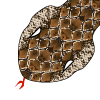
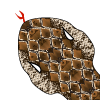
New commit

diff --git a/css/style.min.css b/css/style.min.css
@@ -1,1 +1,1 @@
-.modal-content,:root{color:#fff;font-family:'Seymour One',sans-serif}.modal-content,:root,header{font-family:'Seymour One',sans-serif}.modal-content h5,header,header .game_buttons button{text-shadow:0 .3px .5px #000}*{outline:0}:root{background-color:#38566F;box-shadow:inset 0 -52px 500px 4px #000}body{background:repeating-linear-gradient(45deg,rgba(0,0,0,.2),rgba(0,0,0,.2) 10px,rgba(0,0,0,.3) 10px,rgba(0,0,0,.3) 20px),url();max-width:600px;box-shadow:0 0 43px 17px #000;border-left:10px solid rgba(0,128,0,.2);border-right:10px solid rgba(0,128,0,.2)}.modal-content{background:repeating-linear-gradient(45deg,rgba(0,0,0,.2),rgba(0,0,0,.2) 10px,rgba(0,0,0,.3) 10px,rgba(0,0,0,.3) 20px),url(http://s3-us-west-2.amazonaws.com/s.cdpn.io/3/old_map_@2X.png)}.modal-content .modal-footer,.modal-content .modal-header{background:#ADA58E}.modal-content h5{color:#FFE0A2}.modal-content .btn-default.active{background:#F3BF62}header{color:#fff;padding:15px 25px}header .title{font-size:100%}header .game_buttons{text-align:right}header .game_buttons button{font-size:92%;letter-spacing:-.6px;border-radius:100%;height:75px;width:75px;margin:0 0 0 .5rem;padding:0;vertical-align:top;border:none}header .game_buttons button .underline,header .game_buttons button:not(#reset)::first-letter{text-decoration:underline}header .game_buttons button#options{background:#5B9B5B;font-size:150%}header .game_buttons button#options:hover{background-color:#398239;border-color:#398439}section{padding:0 20px}.flipV{-moz-transform:scaleX(-1);-o-transform:scaleX(-1);-webkit-transform:scaleX(-1);transform:scaleX(-1);filter:FlipV;-ms-filter:"FlipV"}.flipH{-moz-transform:scaleY(-1);-o-transform:scaleY(-1);-webkit-transform:scaleY(-1);transform:scaleY(-1);filter:FlipH;-ms-filter:"FlipH"}.direction.right{-o-transform:rotate(90deg);-ms-transform:rotate(90deg);-webkit-transform:rotate(90deg);transform:rotate(90deg)}.direction.right.flip{-moz-transform:scaleY(-1) rotate(90deg);-o-transform:scaleY(-1) rotate(90deg);-webkit-transform:scaleY(-1) rotate(90deg);transform:scaleY(-1) rotate(90deg);filter:FlipH;-ms-filter:"FlipH"}.direction.down{-o-transform:rotate(180deg);-ms-transform:rotate(180deg);-webkit-transform:rotate(180deg);transform:rotate(180deg)}.direction.down.flip{-moz-transform:scaleX(-1) rotate(180deg);-o-transform:scaleX(-1) rotate(180deg);-webkit-transform:scaleX(-1) rotate(180deg);transform:scaleX(-1) rotate(180deg);filter:flipV;-ms-filter:"FlipV"}.direction.left{-o-transform:rotate(-90deg);-ms-transform:rotate(-90deg);-webkit-transform:rotate(-90deg);transform:rotate(-90deg)}.direction.left.flip{-moz-transform:scaleY(-1) rotate(-90deg);-o-transform:scaleY(-1) rotate(-90deg);-webkit-transform:scaleY(-1) rotate(-90deg);transform:scaleY(-1) rotate(-90deg);filter:FlipH;-ms-filter:"FlipH"}.direction.up{-o-transform:rotate(0);-ms-transform:rotate(0);-webkit-transform:rotate(0);transform:rotate(0)}.direction.up.flip{-moz-transform:scaleX(-1) rotate(0);-o-transform:scaleX(-1) rotate(0);-webkit-transform:scaleX(-1) rotate(0);transform:scaleX(-1) rotate(0);filter:flipV;-ms-filter:"FlipV"}.board{box-sizing:content-box;background:linear-gradient(to bottom,#5d9634,#5d9634 50%,#538c2b 50%,#538c2b);background-size:100% 20px;width:100%;max-width:500px;border:3px double #fff;margin:auto;padding:0}.board .quadrant{box-sizing:border-box;width:4%;height:4%;float:left;margin:0;padding:0;background-size:cover}.board .snake{background:orange;background-size:cover!important}.board .snake.snake-body-1{background:url(../images/snake-graphics_head-2.png)}.board .snake.snake-body-1.right{-o-transform:rotate(90deg);-ms-transform:rotate(90deg);-webkit-transform:rotate(90deg);transform:rotate(90deg)}.board .snake.snake-body-1.right.flip{-moz-transform:scaleY(-1) rotate(90deg);-o-transform:scaleY(-1) rotate(90deg);-webkit-transform:scaleY(-1) rotate(90deg);transform:scaleY(-1) rotate(90deg);filter:FlipH;-ms-filter:"FlipH"}.board .snake.snake-body-1.down{-o-transform:rotate(180deg);-ms-transform:rotate(180deg);-webkit-transform:rotate(180deg);transform:rotate(180deg)}.board .snake.snake-body-1.down.flip{-moz-transform:scaleX(-1) rotate(180deg);-o-transform:scaleX(-1) rotate(180deg);-webkit-transform:scaleX(-1) rotate(180deg);transform:scaleX(-1) rotate(180deg);filter:flipV;-ms-filter:"FlipV"}.board .snake.snake-body-1.left{-o-transform:rotate(-90deg);-ms-transform:rotate(-90deg);-webkit-transform:rotate(-90deg);transform:rotate(-90deg)}.board .snake.snake-body-1.left.flip{-moz-transform:scaleY(-1) rotate(-90deg);-o-transform:scaleY(-1) rotate(-90deg);-webkit-transform:scaleY(-1) rotate(-90deg);transform:scaleY(-1) rotate(-90deg);filter:FlipH;-ms-filter:"FlipH"}.board .snake.snake-body-1.up{-o-transform:rotate(0);-ms-transform:rotate(0);-webkit-transform:rotate(0);transform:rotate(0)}.board .snake.snake-body-1.up.flip{-moz-transform:scaleX(-1) rotate(0);-o-transform:scaleX(-1) rotate(0);-webkit-transform:scaleX(-1) rotate(0);transform:scaleX(-1) rotate(0);filter:flipV;-ms-filter:"FlipV"}.board .snake.snake-body-main{background:url(../images/snake-graphics_mid.png)}.board .snake.snake-body-main.right{-o-transform:rotate(90deg);-ms-transform:rotate(90deg);-webkit-transform:rotate(90deg);transform:rotate(90deg)}.board .snake.snake-body-main.right.flip{-moz-transform:scaleY(-1) rotate(90deg);-o-transform:scaleY(-1) rotate(90deg);-webkit-transform:scaleY(-1) rotate(90deg);transform:scaleY(-1) rotate(90deg);filter:FlipH;-ms-filter:"FlipH"}.board .snake.snake-body-main.down{-o-transform:rotate(180deg);-ms-transform:rotate(180deg);-webkit-transform:rotate(180deg);transform:rotate(180deg)}.board .snake.snake-body-main.down.flip{-moz-transform:scaleX(-1) rotate(180deg);-o-transform:scaleX(-1) rotate(180deg);-webkit-transform:scaleX(-1) rotate(180deg);transform:scaleX(-1) rotate(180deg);filter:flipV;-ms-filter:"FlipV"}.board .snake.snake-body-main.left{-o-transform:rotate(-90deg);-ms-transform:rotate(-90deg);-webkit-transform:rotate(-90deg);transform:rotate(-90deg)}.board .snake.snake-body-main.left.flip{-moz-transform:scaleY(-1) rotate(-90deg);-o-transform:scaleY(-1) rotate(-90deg);-webkit-transform:scaleY(-1) rotate(-90deg);transform:scaleY(-1) rotate(-90deg);filter:FlipH;-ms-filter:"FlipH"}.board .snake.snake-body-main.up{-o-transform:rotate(0);-ms-transform:rotate(0);-webkit-transform:rotate(0);transform:rotate(0)}.board .snake.snake-body-main.up.flip{-moz-transform:scaleX(-1) rotate(0);-o-transform:scaleX(-1) rotate(0);-webkit-transform:scaleX(-1) rotate(0);transform:scaleX(-1) rotate(0);filter:flipV;-ms-filter:"FlipV"}.board .snake.snake-tail{background:url(../images/snake-graphics_tail.png)}.board .snake.snake-tail.right{-o-transform:rotate(90deg);-ms-transform:rotate(90deg);-webkit-transform:rotate(90deg);transform:rotate(90deg)}.board .snake.snake-tail.right.flip{-moz-transform:scaleY(-1) rotate(90deg);-o-transform:scaleY(-1) rotate(90deg);-webkit-transform:scaleY(-1) rotate(90deg);transform:scaleY(-1) rotate(90deg);filter:FlipH;-ms-filter:"FlipH"}.board .snake.snake-tail.down{-o-transform:rotate(180deg);-ms-transform:rotate(180deg);-webkit-transform:rotate(180deg);transform:rotate(180deg)}.board .snake.snake-tail.down.flip{-moz-transform:scaleX(-1) rotate(180deg);-o-transform:scaleX(-1) rotate(180deg);-webkit-transform:scaleX(-1) rotate(180deg);transform:scaleX(-1) rotate(180deg);filter:flipV;-ms-filter:"FlipV"}.board .snake.snake-tail.left{-o-transform:rotate(-90deg);-ms-transform:rotate(-90deg);-webkit-transform:rotate(-90deg);transform:rotate(-90deg)}.board .snake.snake-tail.left.flip{-moz-transform:scaleY(-1) rotate(-90deg);-o-transform:scaleY(-1) rotate(-90deg);-webkit-transform:scaleY(-1) rotate(-90deg);transform:scaleY(-1) rotate(-90deg);filter:FlipH;-ms-filter:"FlipH"}.board .snake.snake-tail.up{-o-transform:rotate(0);-ms-transform:rotate(0);-webkit-transform:rotate(0);transform:rotate(0)}.board .snake.snake-tail.up.flip{-moz-transform:scaleX(-1) rotate(0);-o-transform:scaleX(-1) rotate(0);-webkit-transform:scaleX(-1) rotate(0);transform:scaleX(-1) rotate(0);filter:flipV;-ms-filter:"FlipV"}.board .snake.snake-corner{background:url(../images/snake-graphics_corner-1.png)}.board .snake.snake-corner.left-corner{-o-transform:rotate(0);-ms-transform:rotate(0);-webkit-transform:rotate(0);transform:rotate(0)}.board .snake.snake-corner.left-corner.flip{-o-transform:rotate(-90deg);-ms-transform:rotate(-90deg);-webkit-transform:rotate(-90deg);transform:rotate(-90deg)}.board .snake.snake-corner.left-corner.flip.flip{-moz-transform:scaleX(-1) rotate(-90deg);-o-transform:scaleX(-1) rotate(-90deg);-webkit-transform:scaleX(-1) rotate(-90deg);transform:scaleX(-1) rotate(-90deg);filter:flipV;-ms-filter:"FlipV"}.board .snake.snake-corner.right-corner{-o-transform:rotate(-90deg);-ms-transform:rotate(-90deg);-webkit-transform:rotate(-90deg);transform:rotate(-90deg)}.board .snake.snake-corner.right-corner.flip{-moz-transform:scaleX(-1);-o-transform:scaleX(-1);-webkit-transform:scaleX(-1);transform:scaleX(-1);filter:FlipV;-ms-filter:"FlipV"}.board .snake.snake-corner.down-right-corner{-o-transform:rotate(180deg);-ms-transform:rotate(180deg);-webkit-transform:rotate(180deg);transform:rotate(180deg)}.board .snake.snake-corner.down-right-corner.flip{-o-transform:rotate(90deg);-ms-transform:rotate(90deg);-webkit-transform:rotate(90deg);transform:rotate(90deg)}.board .snake.snake-corner.down-right-corner.flip.flip{-moz-transform:scaleX(-1) rotate(90deg);-o-transform:scaleX(-1) rotate(90deg);-webkit-transform:scaleX(-1) rotate(90deg);transform:scaleX(-1) rotate(90deg);filter:flipV;-ms-filter:"FlipV"}.board .snake.snake-corner.down-left-corner{-o-transform:rotate(90deg);-ms-transform:rotate(90deg);-webkit-transform:rotate(90deg);transform:rotate(90deg)}.board .snake.snake-corner.down-left-corner.flip{-moz-transform:scaleY(-1);-o-transform:scaleY(-1);-webkit-transform:scaleY(-1);transform:scaleY(-1);filter:FlipH;-ms-filter:"FlipH"}.board .snake.snake-head{background:url(../images/snake-graphics_head.png)}.board .snake.snake-head.right{-o-transform:rotate(90deg);-ms-transform:rotate(90deg);-webkit-transform:rotate(90deg);transform:rotate(90deg)}.board .snake.snake-head.right.flip{-moz-transform:scaleY(-1) rotate(90deg);-o-transform:scaleY(-1) rotate(90deg);-webkit-transform:scaleY(-1) rotate(90deg);transform:scaleY(-1) rotate(90deg);filter:FlipH;-ms-filter:"FlipH"}.board .snake.snake-head.down{-o-transform:rotate(180deg);-ms-transform:rotate(180deg);-webkit-transform:rotate(180deg);transform:rotate(180deg)}.board .snake.snake-head.down.flip{-moz-transform:scaleX(-1) rotate(180deg);-o-transform:scaleX(-1) rotate(180deg);-webkit-transform:scaleX(-1) rotate(180deg);transform:scaleX(-1) rotate(180deg);filter:flipV;-ms-filter:"FlipV"}.board .snake.snake-head.left{-o-transform:rotate(-90deg);-ms-transform:rotate(-90deg);-webkit-transform:rotate(-90deg);transform:rotate(-90deg)}.board .snake.snake-head.left.flip{-moz-transform:scaleY(-1) rotate(-90deg);-o-transform:scaleY(-1) rotate(-90deg);-webkit-transform:scaleY(-1) rotate(-90deg);transform:scaleY(-1) rotate(-90deg);filter:FlipH;-ms-filter:"FlipH"}.board .snake.snake-head.up{-o-transform:rotate(0);-ms-transform:rotate(0);-webkit-transform:rotate(0);transform:rotate(0)}.board .snake.snake-head.up.flip{-moz-transform:scaleX(-1) rotate(0);-o-transform:scaleX(-1) rotate(0);-webkit-transform:scaleX(-1) rotate(0);transform:scaleX(-1) rotate(0);filter:flipV;-ms-filter:"FlipV"}.board .snake.alternate-head,.board .snake.alternate-head.flip{background:url(../images/snake-graphics-turning-head.png)}.board .fruit{background:red;border-radius:100%}.board .frog{background:url(../images/frog.png);background-size:cover;opacity:.8}.board .frog.right{-o-transform:rotate(90deg);-ms-transform:rotate(90deg);-webkit-transform:rotate(90deg);transform:rotate(90deg)}.board .frog.right.flip{-moz-transform:scaleY(-1) rotate(90deg);-o-transform:scaleY(-1) rotate(90deg);-webkit-transform:scaleY(-1) rotate(90deg);transform:scaleY(-1) rotate(90deg);filter:FlipH;-ms-filter:"FlipH"}.board .frog.down{-o-transform:rotate(180deg);-ms-transform:rotate(180deg);-webkit-transform:rotate(180deg);transform:rotate(180deg)}.board .frog.down.flip{-moz-transform:scaleX(-1) rotate(180deg);-o-transform:scaleX(-1) rotate(180deg);-webkit-transform:scaleX(-1) rotate(180deg);transform:scaleX(-1) rotate(180deg);filter:flipV;-ms-filter:"FlipV"}.board .frog.left{-o-transform:rotate(-90deg);-ms-transform:rotate(-90deg);-webkit-transform:rotate(-90deg);transform:rotate(-90deg)}.board .frog.left.flip{-moz-transform:scaleY(-1) rotate(-90deg);-o-transform:scaleY(-1) rotate(-90deg);-webkit-transform:scaleY(-1) rotate(-90deg);transform:scaleY(-1) rotate(-90deg);filter:FlipH;-ms-filter:"FlipH"}.board .frog.up{-o-transform:rotate(0);-ms-transform:rotate(0);-webkit-transform:rotate(0);transform:rotate(0)}.board .frog.up.flip{-moz-transform:scaleX(-1) rotate(0);-o-transform:scaleX(-1) rotate(0);-webkit-transform:scaleX(-1) rotate(0);transform:scaleX(-1) rotate(0);filter:flipV;-ms-filter:"FlipV"}#legend .game_controller{padding:2rem}#legend .game_controller button{background:#fff;border-radius:30px;height:46px}#legend .game_controller button .fa{font-size:2rem}#legend .game_controller #down:active,#legend .game_controller #left:active,#legend .game_controller #right:active,#legend .game_controller #up:active,#legend .game_controller .pressed{border-style:inset;background:#D9534F;color:#fff}@media screen and (max-width:768px){.board{max-width:400px}header .game_buttons{padding-right:0}header .game_buttons button{height:40px;width:40px;border-radius:100%;margin:0;font-size:0}header .game_buttons button::first-letter{font-size:15px;text-decoration:none!important}.game_controller button{height:5rem}.no-mobile{display:none}}.hidden,.ui-loader{display:none}
+.modal-content,:root{color:#fff;font-family:'Seymour One',sans-serif}.modal-content,:root,header{font-family:'Seymour One',sans-serif}.modal-content h5,header,header .game_buttons button{text-shadow:0 .3px .5px #000}*{outline:0}:root{background-color:#38566F;box-shadow:inset 0 -52px 500px 4px #000}body{background:repeating-linear-gradient(45deg,rgba(0,0,0,.2),rgba(0,0,0,.2) 10px,rgba(0,0,0,.3) 10px,rgba(0,0,0,.3) 20px),url();max-width:600px;box-shadow:0 0 43px 17px #000;border-left:10px solid rgba(0,128,0,.2);border-right:10px solid rgba(0,128,0,.2)}.modal-content{background:repeating-linear-gradient(45deg,rgba(0,0,0,.2),rgba(0,0,0,.2) 10px,rgba(0,0,0,.3) 10px,rgba(0,0,0,.3) 20px),url(http://s3-us-west-2.amazonaws.com/s.cdpn.io/3/old_map_@2X.png)}.modal-content .modal-footer,.modal-content .modal-header{background:#ADA58E}.modal-content h5{color:#FFE0A2}.modal-content .btn-default.active{background:#F3BF62}header{color:#fff;padding:15px 25px}header .title{font-size:100%}header .game_buttons{text-align:right}header .game_buttons button{font-size:92%;letter-spacing:-.6px;border-radius:100%;height:75px;width:75px;margin:0 0 0 .5rem;padding:0;vertical-align:top;border:none}header .game_buttons button .underline,header .game_buttons button:not(#reset)::first-letter{text-decoration:underline}header .game_buttons button#options{background:#5B9B5B;font-size:150%}header .game_buttons button#options:hover{background-color:#398239;border-color:#398439}section{padding:0 20px}.flipV{-moz-transform:scaleX(-1);-o-transform:scaleX(-1);-webkit-transform:scaleX(-1);transform:scaleX(-1);filter:FlipV;-ms-filter:"FlipV"}.flipH{-moz-transform:scaleY(-1);-o-transform:scaleY(-1);-webkit-transform:scaleY(-1);transform:scaleY(-1);filter:FlipH;-ms-filter:"FlipH"}.direction.right{-o-transform:rotate(90deg);-ms-transform:rotate(90deg);-webkit-transform:rotate(90deg);transform:rotate(90deg)}.direction.right.flip{-moz-transform:scaleY(-1) rotate(90deg);-o-transform:scaleY(-1) rotate(90deg);-webkit-transform:scaleY(-1) rotate(90deg);transform:scaleY(-1) rotate(90deg);filter:FlipH;-ms-filter:"FlipH"}.direction.down{-o-transform:rotate(180deg);-ms-transform:rotate(180deg);-webkit-transform:rotate(180deg);transform:rotate(180deg)}.direction.down.flip{-moz-transform:scaleX(-1) rotate(180deg);-o-transform:scaleX(-1) rotate(180deg);-webkit-transform:scaleX(-1) rotate(180deg);transform:scaleX(-1) rotate(180deg);filter:flipV;-ms-filter:"FlipV"}.direction.left{-o-transform:rotate(-90deg);-ms-transform:rotate(-90deg);-webkit-transform:rotate(-90deg);transform:rotate(-90deg)}.direction.left.flip{-moz-transform:scaleY(-1) rotate(-90deg);-o-transform:scaleY(-1) rotate(-90deg);-webkit-transform:scaleY(-1) rotate(-90deg);transform:scaleY(-1) rotate(-90deg);filter:FlipH;-ms-filter:"FlipH"}.direction.up{-o-transform:rotate(0);-ms-transform:rotate(0);-webkit-transform:rotate(0);transform:rotate(0)}.direction.up.flip{-moz-transform:scaleX(-1) rotate(0);-o-transform:scaleX(-1) rotate(0);-webkit-transform:scaleX(-1) rotate(0);transform:scaleX(-1) rotate(0);filter:flipV;-ms-filter:"FlipV"}.board{box-sizing:content-box;background:linear-gradient(to bottom,#5d9634,#5d9634 50%,#538c2b 50%,#538c2b);background-size:100% 20px;width:100%;max-width:500px;border:3px double #fff;margin:auto;padding:0}.board .quadrant{box-sizing:border-box;width:4%;height:4%;float:left;margin:0;padding:0;background-size:cover}.board .snake{background:orange;background-size:cover!important}.board .snake.snake-body-1{background:url(../images/snake-graphics_head-2.png)}.board .snake.snake-body-1.right{-o-transform:rotate(90deg);-ms-transform:rotate(90deg);-webkit-transform:rotate(90deg);transform:rotate(90deg)}.board .snake.snake-body-1.right.flip{-moz-transform:scaleY(-1) rotate(90deg);-o-transform:scaleY(-1) rotate(90deg);-webkit-transform:scaleY(-1) rotate(90deg);transform:scaleY(-1) rotate(90deg);filter:FlipH;-ms-filter:"FlipH"}.board .snake.snake-body-1.down{-o-transform:rotate(180deg);-ms-transform:rotate(180deg);-webkit-transform:rotate(180deg);transform:rotate(180deg)}.board .snake.snake-body-1.down.flip{-moz-transform:scaleX(-1) rotate(180deg);-o-transform:scaleX(-1) rotate(180deg);-webkit-transform:scaleX(-1) rotate(180deg);transform:scaleX(-1) rotate(180deg);filter:flipV;-ms-filter:"FlipV"}.board .snake.snake-body-1.left{-o-transform:rotate(-90deg);-ms-transform:rotate(-90deg);-webkit-transform:rotate(-90deg);transform:rotate(-90deg)}.board .snake.snake-body-1.left.flip{-moz-transform:scaleY(-1) rotate(-90deg);-o-transform:scaleY(-1) rotate(-90deg);-webkit-transform:scaleY(-1) rotate(-90deg);transform:scaleY(-1) rotate(-90deg);filter:FlipH;-ms-filter:"FlipH"}.board .snake.snake-body-1.up{-o-transform:rotate(0);-ms-transform:rotate(0);-webkit-transform:rotate(0);transform:rotate(0)}.board .snake.snake-body-1.up.flip{-moz-transform:scaleX(-1) rotate(0);-o-transform:scaleX(-1) rotate(0);-webkit-transform:scaleX(-1) rotate(0);transform:scaleX(-1) rotate(0);filter:flipV;-ms-filter:"FlipV"}.board .snake.snake-body-main{background:url(../images/snake-graphics_mid.png)}.board .snake.snake-body-main.right{-o-transform:rotate(90deg);-ms-transform:rotate(90deg);-webkit-transform:rotate(90deg);transform:rotate(90deg)}.board .snake.snake-body-main.right.flip{-moz-transform:scaleY(-1) rotate(90deg);-o-transform:scaleY(-1) rotate(90deg);-webkit-transform:scaleY(-1) rotate(90deg);transform:scaleY(-1) rotate(90deg);filter:FlipH;-ms-filter:"FlipH"}.board .snake.snake-body-main.down{-o-transform:rotate(180deg);-ms-transform:rotate(180deg);-webkit-transform:rotate(180deg);transform:rotate(180deg)}.board .snake.snake-body-main.down.flip{-moz-transform:scaleX(-1) rotate(180deg);-o-transform:scaleX(-1) rotate(180deg);-webkit-transform:scaleX(-1) rotate(180deg);transform:scaleX(-1) rotate(180deg);filter:flipV;-ms-filter:"FlipV"}.board .snake.snake-body-main.left{-o-transform:rotate(-90deg);-ms-transform:rotate(-90deg);-webkit-transform:rotate(-90deg);transform:rotate(-90deg)}.board .snake.snake-body-main.left.flip{-moz-transform:scaleY(-1) rotate(-90deg);-o-transform:scaleY(-1) rotate(-90deg);-webkit-transform:scaleY(-1) rotate(-90deg);transform:scaleY(-1) rotate(-90deg);filter:FlipH;-ms-filter:"FlipH"}.board .snake.snake-body-main.up{-o-transform:rotate(0);-ms-transform:rotate(0);-webkit-transform:rotate(0);transform:rotate(0)}.board .snake.snake-body-main.up.flip{-moz-transform:scaleX(-1) rotate(0);-o-transform:scaleX(-1) rotate(0);-webkit-transform:scaleX(-1) rotate(0);transform:scaleX(-1) rotate(0);filter:flipV;-ms-filter:"FlipV"}.board .snake.snake-tail{background:url(../images/snake-graphics_tail.png)}.board .snake.snake-tail.right{-o-transform:rotate(90deg);-ms-transform:rotate(90deg);-webkit-transform:rotate(90deg);transform:rotate(90deg)}.board .snake.snake-tail.right.flip{-moz-transform:scaleY(-1) rotate(90deg);-o-transform:scaleY(-1) rotate(90deg);-webkit-transform:scaleY(-1) rotate(90deg);transform:scaleY(-1) rotate(90deg);filter:FlipH;-ms-filter:"FlipH"}.board .snake.snake-tail.down{-o-transform:rotate(180deg);-ms-transform:rotate(180deg);-webkit-transform:rotate(180deg);transform:rotate(180deg)}.board .snake.snake-tail.down.flip{-moz-transform:scaleX(-1) rotate(180deg);-o-transform:scaleX(-1) rotate(180deg);-webkit-transform:scaleX(-1) rotate(180deg);transform:scaleX(-1) rotate(180deg);filter:flipV;-ms-filter:"FlipV"}.board .snake.snake-tail.left{-o-transform:rotate(-90deg);-ms-transform:rotate(-90deg);-webkit-transform:rotate(-90deg);transform:rotate(-90deg)}.board .snake.snake-tail.left.flip{-moz-transform:scaleY(-1) rotate(-90deg);-o-transform:scaleY(-1) rotate(-90deg);-webkit-transform:scaleY(-1) rotate(-90deg);transform:scaleY(-1) rotate(-90deg);filter:FlipH;-ms-filter:"FlipH"}.board .snake.snake-tail.up{-o-transform:rotate(0);-ms-transform:rotate(0);-webkit-transform:rotate(0);transform:rotate(0)}.board .snake.snake-tail.up.flip{-moz-transform:scaleX(-1) rotate(0);-o-transform:scaleX(-1) rotate(0);-webkit-transform:scaleX(-1) rotate(0);transform:scaleX(-1) rotate(0);filter:flipV;-ms-filter:"FlipV"}.board .snake.snake-corner{background:url(../images/snake-graphics_corner-1.png)}.board .snake.snake-corner.left-corner{-o-transform:rotate(0);-ms-transform:rotate(0);-webkit-transform:rotate(0);transform:rotate(0)}.board .snake.snake-corner.left-corner.flip{-o-transform:rotate(-90deg);-ms-transform:rotate(-90deg);-webkit-transform:rotate(-90deg);transform:rotate(-90deg)}.board .snake.snake-corner.left-corner.flip.flip{-moz-transform:scaleX(-1) rotate(-90deg);-o-transform:scaleX(-1) rotate(-90deg);-webkit-transform:scaleX(-1) rotate(-90deg);transform:scaleX(-1) rotate(-90deg);filter:flipV;-ms-filter:"FlipV"}.board .snake.snake-corner.right-corner{-o-transform:rotate(-90deg);-ms-transform:rotate(-90deg);-webkit-transform:rotate(-90deg);transform:rotate(-90deg)}.board .snake.snake-corner.right-corner.flip{-moz-transform:scaleX(-1);-o-transform:scaleX(-1);-webkit-transform:scaleX(-1);transform:scaleX(-1);filter:FlipV;-ms-filter:"FlipV"}.board .snake.snake-corner.down-right-corner{-o-transform:rotate(180deg);-ms-transform:rotate(180deg);-webkit-transform:rotate(180deg);transform:rotate(180deg)}.board .snake.snake-corner.down-right-corner.flip{-o-transform:rotate(90deg);-ms-transform:rotate(90deg);-webkit-transform:rotate(90deg);transform:rotate(90deg)}.board .snake.snake-corner.down-right-corner.flip.flip{-moz-transform:scaleX(-1) rotate(90deg);-o-transform:scaleX(-1) rotate(90deg);-webkit-transform:scaleX(-1) rotate(90deg);transform:scaleX(-1) rotate(90deg);filter:flipV;-ms-filter:"FlipV"}.board .snake.snake-corner.down-left-corner{-o-transform:rotate(90deg);-ms-transform:rotate(90deg);-webkit-transform:rotate(90deg);transform:rotate(90deg)}.board .snake.snake-corner.down-left-corner.flip{-moz-transform:scaleY(-1);-o-transform:scaleY(-1);-webkit-transform:scaleY(-1);transform:scaleY(-1);filter:FlipH;-ms-filter:"FlipH"}.board .snake.snake-head{background:url(../images/head-2.png)}.board .snake.snake-head.right{-o-transform:rotate(90deg);-ms-transform:rotate(90deg);-webkit-transform:rotate(90deg);transform:rotate(90deg)}.board .snake.snake-head.right.flip{-moz-transform:scaleY(-1) rotate(90deg);-o-transform:scaleY(-1) rotate(90deg);-webkit-transform:scaleY(-1) rotate(90deg);transform:scaleY(-1) rotate(90deg);filter:FlipH;-ms-filter:"FlipH"}.board .snake.snake-head.down{-o-transform:rotate(180deg);-ms-transform:rotate(180deg);-webkit-transform:rotate(180deg);transform:rotate(180deg)}.board .snake.snake-head.down.flip{-moz-transform:scaleX(-1) rotate(180deg);-o-transform:scaleX(-1) rotate(180deg);-webkit-transform:scaleX(-1) rotate(180deg);transform:scaleX(-1) rotate(180deg);filter:flipV;-ms-filter:"FlipV"}.board .snake.snake-head.left{-o-transform:rotate(-90deg);-ms-transform:rotate(-90deg);-webkit-transform:rotate(-90deg);transform:rotate(-90deg)}.board .snake.snake-head.left.flip{-moz-transform:scaleY(-1) rotate(-90deg);-o-transform:scaleY(-1) rotate(-90deg);-webkit-transform:scaleY(-1) rotate(-90deg);transform:scaleY(-1) rotate(-90deg);filter:FlipH;-ms-filter:"FlipH"}.board .snake.snake-head.up{-o-transform:rotate(0);-ms-transform:rotate(0);-webkit-transform:rotate(0);transform:rotate(0)}.board .snake.snake-head.up.flip{-moz-transform:scaleX(-1) rotate(0);-o-transform:scaleX(-1) rotate(0);-webkit-transform:scaleX(-1) rotate(0);transform:scaleX(-1) rotate(0);filter:flipV;-ms-filter:"FlipV"}.board .snake.alternate-head,.board .snake.alternate-head.flip{background:url(../images/snake-graphics-turning-head.png)}.board .fruit{background:red;border-radius:100%}.board .frog{background:url(../images/frog.png);background-size:cover;opacity:.8}.board .frog.right{-o-transform:rotate(90deg);-ms-transform:rotate(90deg);-webkit-transform:rotate(90deg);transform:rotate(90deg)}.board .frog.right.flip{-moz-transform:scaleY(-1) rotate(90deg);-o-transform:scaleY(-1) rotate(90deg);-webkit-transform:scaleY(-1) rotate(90deg);transform:scaleY(-1) rotate(90deg);filter:FlipH;-ms-filter:"FlipH"}.board .frog.down{-o-transform:rotate(180deg);-ms-transform:rotate(180deg);-webkit-transform:rotate(180deg);transform:rotate(180deg)}.board .frog.down.flip{-moz-transform:scaleX(-1) rotate(180deg);-o-transform:scaleX(-1) rotate(180deg);-webkit-transform:scaleX(-1) rotate(180deg);transform:scaleX(-1) rotate(180deg);filter:flipV;-ms-filter:"FlipV"}.board .frog.left{-o-transform:rotate(-90deg);-ms-transform:rotate(-90deg);-webkit-transform:rotate(-90deg);transform:rotate(-90deg)}.board .frog.left.flip{-moz-transform:scaleY(-1) rotate(-90deg);-o-transform:scaleY(-1) rotate(-90deg);-webkit-transform:scaleY(-1) rotate(-90deg);transform:scaleY(-1) rotate(-90deg);filter:FlipH;-ms-filter:"FlipH"}.board .frog.up{-o-transform:rotate(0);-ms-transform:rotate(0);-webkit-transform:rotate(0);transform:rotate(0)}.board .frog.up.flip{-moz-transform:scaleX(-1) rotate(0);-o-transform:scaleX(-1) rotate(0);-webkit-transform:scaleX(-1) rotate(0);transform:scaleX(-1) rotate(0);filter:flipV;-ms-filter:"FlipV"}#legend .game_controller{padding:2rem}#legend .game_controller button{background:#fff;border-radius:30px;height:46px}#legend .game_controller button .fa{font-size:2rem}#legend .game_controller #down:active,#legend .game_controller #left:active,#legend .game_controller #right:active,#legend .game_controller #up:active,#legend .game_controller .pressed{border-style:inset;background:#D9534F;color:#fff}@media screen and (max-width:768px){.board{max-width:400px}header .game_buttons{padding-right:0}header .game_buttons button{height:40px;width:40px;border-radius:100%;margin:0;font-size:0}header .game_buttons button::first-letter{font-size:15px;text-decoration:none!important}.game_controller button{height:5rem}.no-mobile{display:none}}.hidden,.ui-loader{display:none}

diff --git a/js/script.min.js b/js/script.min.js
@@ -1,4 +1,4 @@
 /*
  snake-game 2016-03-10 
 */
-function quad(a){return $("[data-xcoord="+a[0]+"][data-ycoord="+a[1]+"]")}function makeFrogs(){x=Math.floor(Math.random()*(gameOptions.dimension-1-0))+1,y=Math.floor(Math.random()*(gameOptions.dimension-1-0))+1,quad([x,y]).hasClass("snake")?makeFrogs():quad([x,y]).addClass("frog").addClass(directions[Math.floor(Math.random()*directions.length)]),console.log("New Frog: "+x+","+y)}function setup(){$(".board").html("");var a=$(".board").width();$(".board").css("height",a),score=0,$("#score").text(score),isPaused=!0,direction="right",prev_direction=direction,snake=[[~~(gameOptions.dimension/2)-3,~~(gameOptions.dimension/2)],[~~(gameOptions.dimension/2)-2,~~(gameOptions.dimension/2)],[~~(gameOptions.dimension/2)-1,~~(gameOptions.dimension/2)],[~~(gameOptions.dimension/2),~~(gameOptions.dimension/2)]],head=snake.length-1;for(var b=0;b<gameOptions.dimension;b++)for(var c=0;c<gameOptions.dimension;c++)$(".board").append('<div class="quadrant" data-xcoord="'+c+'" data-ycoord="'+b+'"></div>');$(".quadrant").css({width:a/gameOptions.dimension/a*100+"%",height:a/gameOptions.dimension/a*100+"%"}),makeFrogs(),quad(snake[head]).addClass("snake snake-head").addClass(direction),quad(snake[head-1]).addClass("snake snake-body-1 flip").addClass(direction),quad(snake[head-2]).addClass("snake snake-body-main flip").addClass(direction),quad(snake[0]).addClass("snake snake-tail flip").addClass(direction)}function pauseGame(){isPaused?(progress_snake(snake),$("#start_stop").text("Pause"),isPaused=!1):(isPaused=!0,$("#start_stop").html("Resume"))}function isOver(a){return quad(a).hasClass("snake")?(console.log("Over! Bit its tail! "+a),!0):a[0]>=gameOptions.dimension||a[1]>=gameOptions.dimension||a[0]<0||a[1]<0?(console.log("Over! Crashed into the wall! "+a),!0):!1}function growSnake(a){snake.push(a),head=snake.length-1}function makeCorner(a){quad(a).addClass("snake-corner"),("up"==prev_direction&&"right"==direction||"left"==prev_direction&&"down"==direction)&&quad(a).addClass("right-corner"),("up"==prev_direction&&"left"==direction||"right"==prev_direction&&"down"==direction)&&quad(a).addClass("left-corner"),("down"==prev_direction&&"right"==direction||"left"==prev_direction&&"up"==direction)&&quad(a).addClass("down-right-corner"),("down"==prev_direction&&"left"==direction||"right"==prev_direction&&"up"==direction)&&quad(a).addClass("down-left-corner"),prev_direction=direction}function isfrog(a){return quad(a).hasClass("frog")?(score++,$("#score").text(score),!0):!1}function progress_snake(a){var b=a[head][0],c=a[head][1],d=[b,c];switch(direction){case"left":d[0]--;break;case"up":d[1]--;break;case"right":d[0]++;break;case"down":d[1]++}var e=setTimeout(function(){if(isOver(d))clearTimeout(e);else{if(isfrog(d))quad(d).removeClass("frog"),makeFrogs(),growSnake(d);else{quad(a[0]).removeClass().addClass("quadrant");for(var b=0;b<a.length-1;b++)a[b]=a[b+1];a[head]=d}quad(a[head]).removeClass().addClass("quadrant snake snake-head").addClass(direction),prev_direction!=direction&&makeCorner(a[head]),isFlip&&quad(a[head],a[head-1],a[head-2],a[0]).toggleClass("flip"),quad(a[head-1]).hasClass("snake-corner")?(quad(a[head]).addClass("alternate-head"),quad(a[head-1]).removeClass("snake-head")):quad(a[head-1]).addClass("snake snake-body-1").removeClass("snake-head"),quad(a[head-2]).hasClass("snake-corner")?quad(a[head-1]).removeClass("alternate-head"):quad(a[head-2]).addClass("snake snake-body-main").removeClass("snake-body-1").toggleClass("flip"),quad(a[0]).hasClass("snake-corner")?quad(a[0]).addClass("snake snake-tail").removeClass("snake-body-main snake-corner"):quad(a[0]).addClass("snake snake-tail").removeClass("snake-body-main snake-corner").toggleClass("flip"),isFlip=!isFlip,isPaused||progress_snake(a)}},gameOptions.speed)}function goUp(){"down"!=direction&&(prev_direction=direction,direction="up")}function goDown(){"up"!=direction&&(prev_direction=direction,direction="down")}function goLeft(){"right"!=direction&&(prev_direction=direction,direction="left")}function goRight(){"left"!=direction&&(prev_direction=direction,direction="right")}var direction,snake,head,score,prev_direction,x,y,isFlip=!0,isTurn=!1,isCorner=!1;isPaused=!0;var gameOptions={speed:100,dimension:15,theme:"theme1"},directions=["right","left","up","down"];$(document).ready(function(){setup(),window.addEventListener("resize",function(){$(".board").css("height",$(".board").width())},!1),$("#start_stop").on("tap",function(){return"Pause"==$(this).text()?void pauseGame():"Resume"==$(this).text()?void pauseGame():"Start"==$(this).text()?($(this).text("Pause"),isPaused=!1,void progress_snake(snake)):void 0}),$("#reset").on("tap",function(){$("#start_stop").text("Start"),setup()}),$("#more_frogs").on("tap",function(){makeFrogs()}),$("#left").on("tap",function(){goLeft()}),$("#up").on("tap",function(){goUp()}),$("#right").on("tap",function(){goRight()}),$("#down").on("tap",function(){goDown()}),$("#options-form-submit").on("click",function(a){$("#options-form input:checked").each(function(){gameOptions[this.name]=this.value}),console.log(gameOptions),a.preventDefault()})}),$(document).keydown(function(a){switch(a.which){case 37:isPaused&&(pauseGame(),isPaused=!1),goLeft(),$("#left").addClass("pressed");break;case 38:isPaused&&(pauseGame(),isPaused=!1),goUp(),$("#up").addClass("pressed");break;case 39:isPaused&&(pauseGame(),isPaused=!1),goRight(),$("#right").addClass("pressed");break;case 40:isPaused&&(pauseGame(),isPaused=!1),goDown(),$("#down").addClass("pressed");break;case 80:case 83:case 27:case 32:pauseGame();break;case 84:setup();break;case 77:makeFrogs();break;default:return}a.preventDefault()}),$(document).keyup(function(a){switch(a.which){case 37:$("#left").removeClass("pressed");break;case 38:$("#up").removeClass("pressed");break;case 39:$("#right").removeClass("pressed");break;case 40:$("#down").removeClass("pressed");break;default:return}a.preventDefault()});
+function quad(a){return $("[data-xcoord="+a[0]+"][data-ycoord="+a[1]+"]")}function makeFrogs(){x=Math.floor(Math.random()*(gameOptions.dimension-1-0))+1,y=Math.floor(Math.random()*(gameOptions.dimension-1-0))+1,quad([x,y]).hasClass("snake")?makeFrogs():quad([x,y]).addClass("frog").addClass(directions[Math.floor(Math.random()*directions.length)]),console.log("New Frog: "+x+","+y)}function setup(){$(".board").html("");var a=$(".board").width();$(".board").css("height",a),score=0,$("#score").text(score),isPaused=!0,direction="right",prev_direction=direction,snake=[[~~(gameOptions.dimension/2)-3,~~(gameOptions.dimension/2)],[~~(gameOptions.dimension/2)-2,~~(gameOptions.dimension/2)],[~~(gameOptions.dimension/2)-1,~~(gameOptions.dimension/2)],[~~(gameOptions.dimension/2),~~(gameOptions.dimension/2)]],head=snake.length-1;for(var b=0;b<gameOptions.dimension;b++)for(var c=0;c<gameOptions.dimension;c++)$(".board").append('<div class="quadrant" data-xcoord="'+c+'" data-ycoord="'+b+'"></div>');$(".quadrant").css({width:a/gameOptions.dimension/a*100+"%",height:a/gameOptions.dimension/a*100+"%"}),makeFrogs(),quad(snake[head]).addClass("snake snake-head").addClass(direction),quad(snake[head-1]).addClass("snake snake-body-1 flip").addClass(direction),quad(snake[head-2]).addClass("snake snake-body-main flip").addClass(direction),quad(snake[0]).addClass("snake snake-tail flip").addClass(direction)}function pauseGame(){isPaused?(progress_snake(snake),$("#start_stop").text("Pause"),isPaused=!1):(isPaused=!0,$("#start_stop").html("Resume"))}function isOver(a){return quad(a).hasClass("snake")?(console.log("Over! Bit its tail! "+a),!0):a[0]>=gameOptions.dimension||a[1]>=gameOptions.dimension||a[0]<0||a[1]<0?(console.log("Over! Crashed into the wall! "+a),!0):!1}function growSnake(a){snake.push(a),head=snake.length-1}function makeCorner(a){quad(a).addClass("snake-corner"),("up"==prev_direction&&"right"==direction||"left"==prev_direction&&"down"==direction)&&quad(a).addClass("right-corner"),("up"==prev_direction&&"left"==direction||"right"==prev_direction&&"down"==direction)&&quad(a).addClass("left-corner"),("down"==prev_direction&&"right"==direction||"left"==prev_direction&&"up"==direction)&&quad(a).addClass("down-right-corner"),("down"==prev_direction&&"left"==direction||"right"==prev_direction&&"up"==direction)&&quad(a).addClass("down-left-corner"),prev_direction=direction}function isfrog(a){return quad(a).hasClass("frog")?(score++,$("#score").text(score),!0):!1}function progress_snake(a){var b=a[head][0],c=a[head][1],d=[b,c];switch(direction){case"left":d[0]--;break;case"up":d[1]--;break;case"right":d[0]++;break;case"down":d[1]++}var e=setTimeout(function(){if(isOver(d))clearTimeout(e);else{if(isfrog(d))quad(d).removeClass("frog"),makeFrogs(),growSnake(d);else{quad(a[0]).removeClass().addClass("quadrant");for(var b=0;b<a.length-1;b++)a[b]=a[b+1];a[head]=d}quad(a[head]).removeClass().addClass("quadrant snake snake-head").addClass(direction),prev_direction!=direction&&(quad(a[head]).removeClass().addClass("quadrant snake snake-head-2").addClass(direction),makeCorner(a[head])),isFlip&&quad(a[head],a[head-1],a[head-2],a[0]).toggleClass("flip"),quad(a[head-1]).hasClass("snake-corner")?(quad(a[head]).addClass("alternate-head"),quad(a[head-1]).removeClass("snake-head, snake-head-2")):quad(a[head-1]).addClass("snake snake-body-1").removeClass("snake-head-2, snake-head"),quad(a[head-2]).hasClass("snake-corner")?quad(a[head-1]).removeClass("alternate-head"):quad(a[head-2]).addClass("snake snake-body-main").removeClass("snake-body-1").toggleClass("flip"),quad(a[0]).hasClass("snake-corner")?quad(a[0]).addClass("snake snake-tail").removeClass("snake-body-main snake-corner"):quad(a[0]).addClass("snake snake-tail").removeClass("snake-body-main snake-corner").toggleClass("flip"),isFlip=!isFlip,isPaused||progress_snake(a)}},gameOptions.speed)}function goUp(){"down"!=direction&&(prev_direction=direction,direction="up")}function goDown(){"up"!=direction&&(prev_direction=direction,direction="down")}function goLeft(){"right"!=direction&&(prev_direction=direction,direction="left")}function goRight(){"left"!=direction&&(prev_direction=direction,direction="right")}var direction,snake,head,score,prev_direction,x,y,isFlip=!0,isTurn=!1,isCorner=!1;isPaused=!0;var gameOptions={speed:100,dimension:15,theme:"theme1"},directions=["right","left","up","down"];$(document).ready(function(){setup(),window.addEventListener("resize",function(){$(".board").css("height",$(".board").width())},!1),$("#start_stop").on("tap",function(){return"Pause"==$(this).text()?void pauseGame():"Resume"==$(this).text()?void pauseGame():"Start"==$(this).text()?($(this).text("Pause"),isPaused=!1,void progress_snake(snake)):void 0}),$("#reset").on("tap",function(){$("#start_stop").text("Start"),setup()}),$("#more_frogs").on("tap",function(){makeFrogs()}),$("#left").on("tap",function(){goLeft()}),$("#up").on("tap",function(){goUp()}),$("#right").on("tap",function(){goRight()}),$("#down").on("tap",function(){goDown()}),$("#options-form-submit").on("click",function(a){$("#options-form input:checked").each(function(){gameOptions[this.name]=this.value}),console.log(gameOptions),a.preventDefault()})}),$(document).keydown(function(a){switch(a.which){case 37:isPaused&&(pauseGame(),isPaused=!1),goLeft(),$("#left").addClass("pressed");break;case 38:isPaused&&(pauseGame(),isPaused=!1),goUp(),$("#up").addClass("pressed");break;case 39:isPaused&&(pauseGame(),isPaused=!1),goRight(),$("#right").addClass("pressed");break;case 40:isPaused&&(pauseGame(),isPaused=!1),goDown(),$("#down").addClass("pressed");break;case 80:case 83:case 27:case 32:pauseGame();break;case 84:setup();break;case 77:makeFrogs();break;default:return}a.preventDefault()}),$(document).keyup(function(a){switch(a.which){case 37:$("#left").removeClass("pressed");break;case 38:$("#up").removeClass("pressed");break;case 39:$("#right").removeClass("pressed");break;case 40:$("#down").removeClass("pressed");break;default:return}a.preventDefault()});
